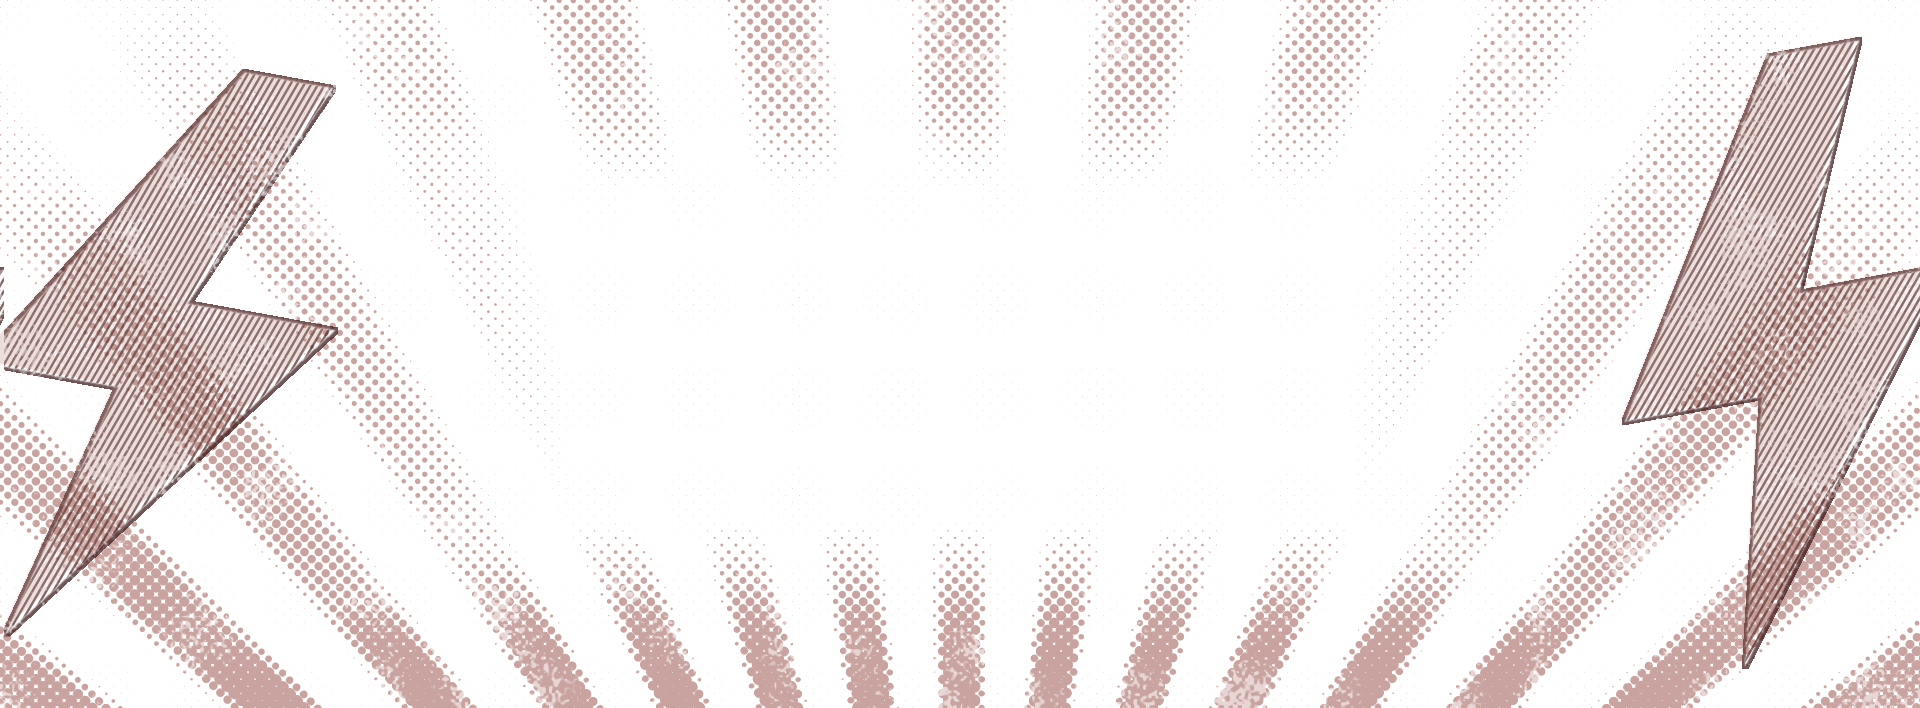
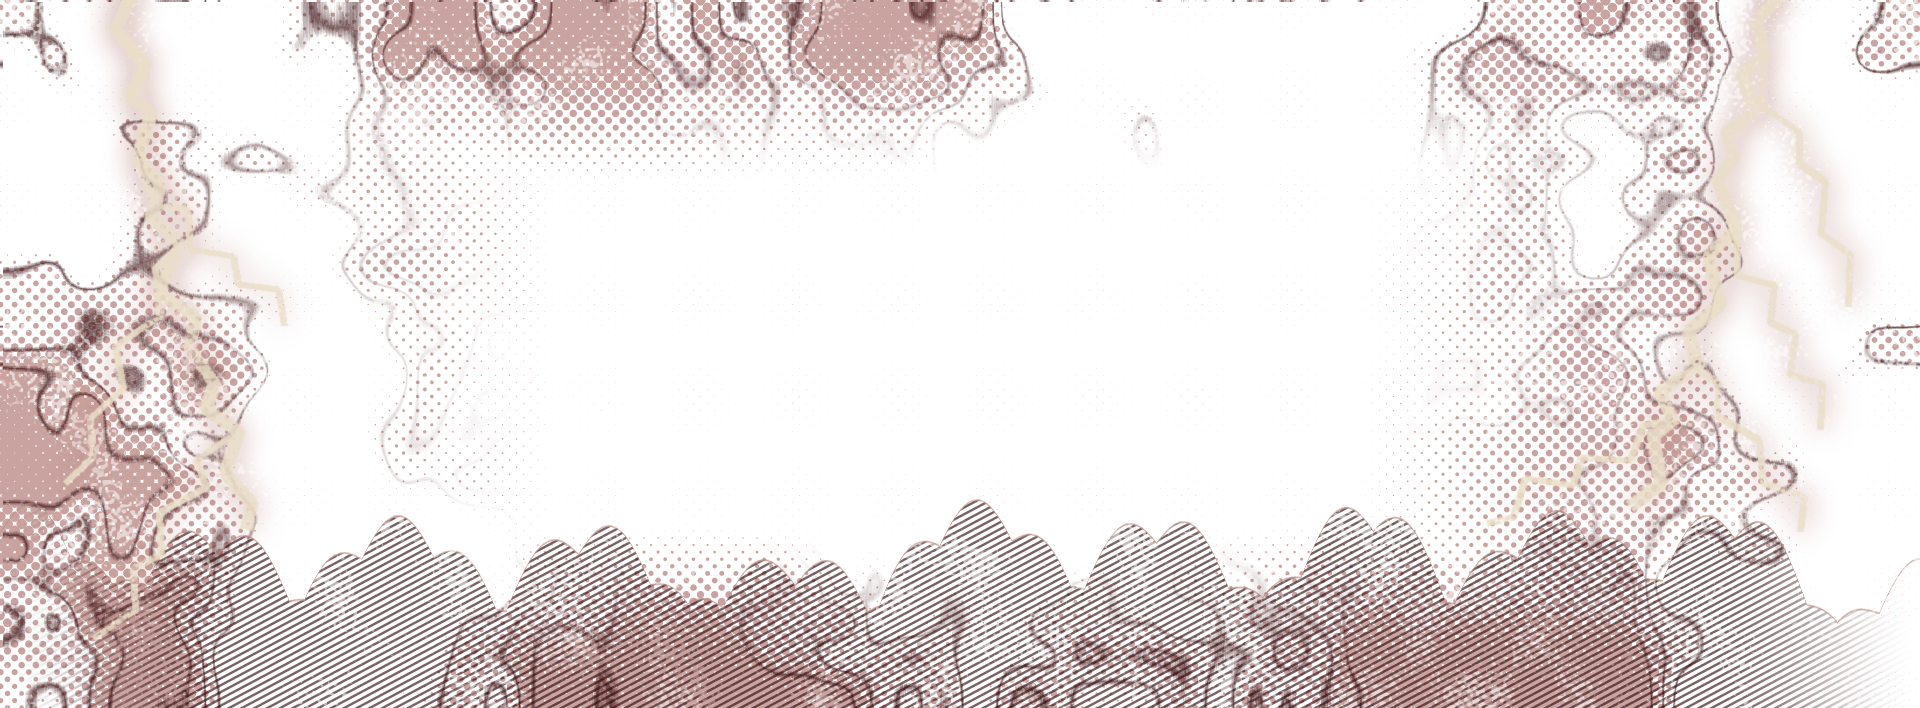
Amp art: a storm scene with forked lightning, inked clouds and a ridge

diff --git a/scripts/make-art.py b/scripts/make-art.py
@@ -236,30 +236,71 @@ def bells(w=1320, h=1200):
     return compose(layers, w, h)
 
 
+def contour_lines(field, levels, width):
+    """Thin lines where `field` crosses each level, like an engraver's contour of a cloud"""
+    out = np.zeros_like(field)
+    for level in levels:
+        out = np.maximum(out, np.clip(1 - np.abs(field - level) / width, 0, 1))
+    return out
+
+
+def fork(draw, rng, x, y, angle, length, width, depth):
+    """A forked lightning bolt: hard zig-zags that keep heading one way, splitting into
+    thinner branches"""
+    pts = [(x, y)]
+    side = 1
+    base = angle
+    for _ in range(int(length / 38)):
+        side = -side
+        step = rng.uniform(26, 54)
+        a = base + side * rng.uniform(0.35, 0.75)
+        x, y = x + np.sin(a) * step, y + np.cos(a) * step
+        pts.append((x, y))
+    draw.line(pts, fill=255, width=max(3, int(width)), joint="curve")
+    if depth > 0:
+        for i in range(2, len(pts) - 3, 3):
+            if rng.random() < 0.65:
+                fork(draw, rng, pts[i][0], pts[i][1], base + rng.choice([-1, 1]) * rng.uniform(0.5, 0.9),
+                     length * 0.4, width * 0.55, depth - 1)
+
+
 def amp(w=1920, h=708):
-    """Storm: rays from below the head, and a bolt struck on each side"""
+    """Storm: inked clouds with contour lines, forked lightning down each side, and a hatched
+    ridge of mountains along the foot of the head"""
     paint = (124, 28, 32)
     x, y = grid(w, h)
-    theta = np.arctan2(x - w * 0.5, (h * 1.9) - y)
-    rays = 0.5 + 0.5 * np.cos(theta * 46)
-    rays = smooth(0.35, 0.95, rays)
-    dist = np.sqrt((x - w * 0.5) ** 2 + ((h * 1.9) - y) ** 2)
-    field_a = rays * smooth(h * 2.25, h * 1.1, dist) * edges(w, h, 0.4)
-    a = halftone(field_a, 10, 45)
+    rng = np.random.default_rng(7)
+    edge = edges(w, h, 0.42)
 
+    # Clouds: two noise fields, a body in halftone and contour lines on top
+    cloud = noise(w, h, 240, 71) * 0.55 + noise(w, h, 90, 72) * 0.3 + noise(w, h, 34, 73) * 0.15
+    cloud_field = smooth(0.38, 0.72, cloud) * edge
+    body = halftone(cloud_field * 0.9, 10, 45)
+    lines = contour_lines(cloud, (0.44, 0.52, 0.60), 0.012) * edge
+
+    # Lightning: two forks from the top corners, with a wide soft glow under each
     img = Image.new("L", (w, h), 0)
     draw = ImageDraw.Draw(img)
-    for cx, tilt in ((w * 0.075, 0.18), (w * 0.925, -0.18)):
-        draw.polygon(bolt_polygon(cx, h * 0.5, h * 0.42, tilt), fill=255)
-    mask = np.asarray(img.filter(ImageFilter.GaussianBlur(0.8)), dtype=np.float32) / 255
-    bolts = hatch(mask, 6, 30, 2.4) * 0.9
-    outline = np.clip(
-        np.asarray(img.filter(ImageFilter.MaxFilter(7)), dtype=np.float32) / 255 - mask, 0, 1
-    )
+    for cx, lean in ((w * 0.07, 0.25), (w * 0.93, -0.25)):
+        fork(draw, rng, cx, -10, lean, h * 0.95, 13, 1)
+    mask = np.asarray(img.filter(ImageFilter.GaussianBlur(0.7)), dtype=np.float32) / 255
+    glow = np.asarray(img.filter(ImageFilter.GaussianBlur(14)), dtype=np.float32) / 255
+    glow = np.clip(glow * 3.0, 0, 1) * edge
+
+    # Mountains: a ridge from layered noise, hatched, with a lighter ridge line
+    peaks = np.abs(np.sin(np.arange(w) / 61.0 + 1.3)) * 0.6 + np.abs(np.sin(np.arange(w) / 23.0)) * 0.25         + noise(w, 2, 120, 74)[0] * 0.5
+    ridge_y = h * (0.93 - 0.17 * peaks)
+    ground = smooth(-1.5, 1.5, y - ridge_y[None, :])
+    ridge = np.clip(1 - np.abs(y - ridge_y[None, :]) / 1.6, 0, 1)
+    foot = hatch(ground, 6, 62, 2.4) * smooth(0.0, 0.1, (x / w) * (1 - x / w)) * 1.0
+
     layers = [
-        ink(a, tint(paint, 0.38), 0.6, w, h, 11),
-        ink(np.roll(np.maximum(bolts, outline), (3, 4), axis=(0, 1)), shadeof(paint, 0.6), 0.7, w, h, 13),
-        ink(mask * 0.5, tint(paint, 0.55), 0.55, w, h, 17),
+        ink(glow, tint(paint, 0.5), 0.35, w, h, 79),
+        ink(body, tint(paint, 0.38), 0.6, w, h, 81),
+        ink(np.roll(lines, (2, 3), axis=(0, 1)), shadeof(paint, 0.55), 0.7, w, h, 83),
+        ink(foot, shadeof(paint, 0.6), 0.65, w, h, 85),
+        ink(ridge, tint(paint, 0.55), 0.7, w, h, 87),
+        ink(np.maximum(mask, 0), CREAM, 0.85, w, h, 89),
     ]
     return compose(layers, w, h)
 
